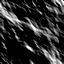
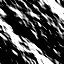
fix bugs, correct foam and light

diff --git a/Assets/Scripts/Ocean.cs b/Assets/Scripts/Ocean.cs
@@ -390,7 +390,7 @@ namespace Ocean{
 
           //atualizar jacobiano com o valor de cada ponto
           float value = (1+der_x)*(1+der_z) - (der_zx)*(der_zx);
-          jacobian[i,j] =Mathf.Clamp01((1f-value));
+          jacobian[i,j] =Mathf.Clamp01((1f-value))*2;
           //atualizando textura
           foldingTable.SetPixel(i,j, new Color(jacobian[i,j], jacobian[i,j], jacobian[i,j], 1f));
           //calculando normal
